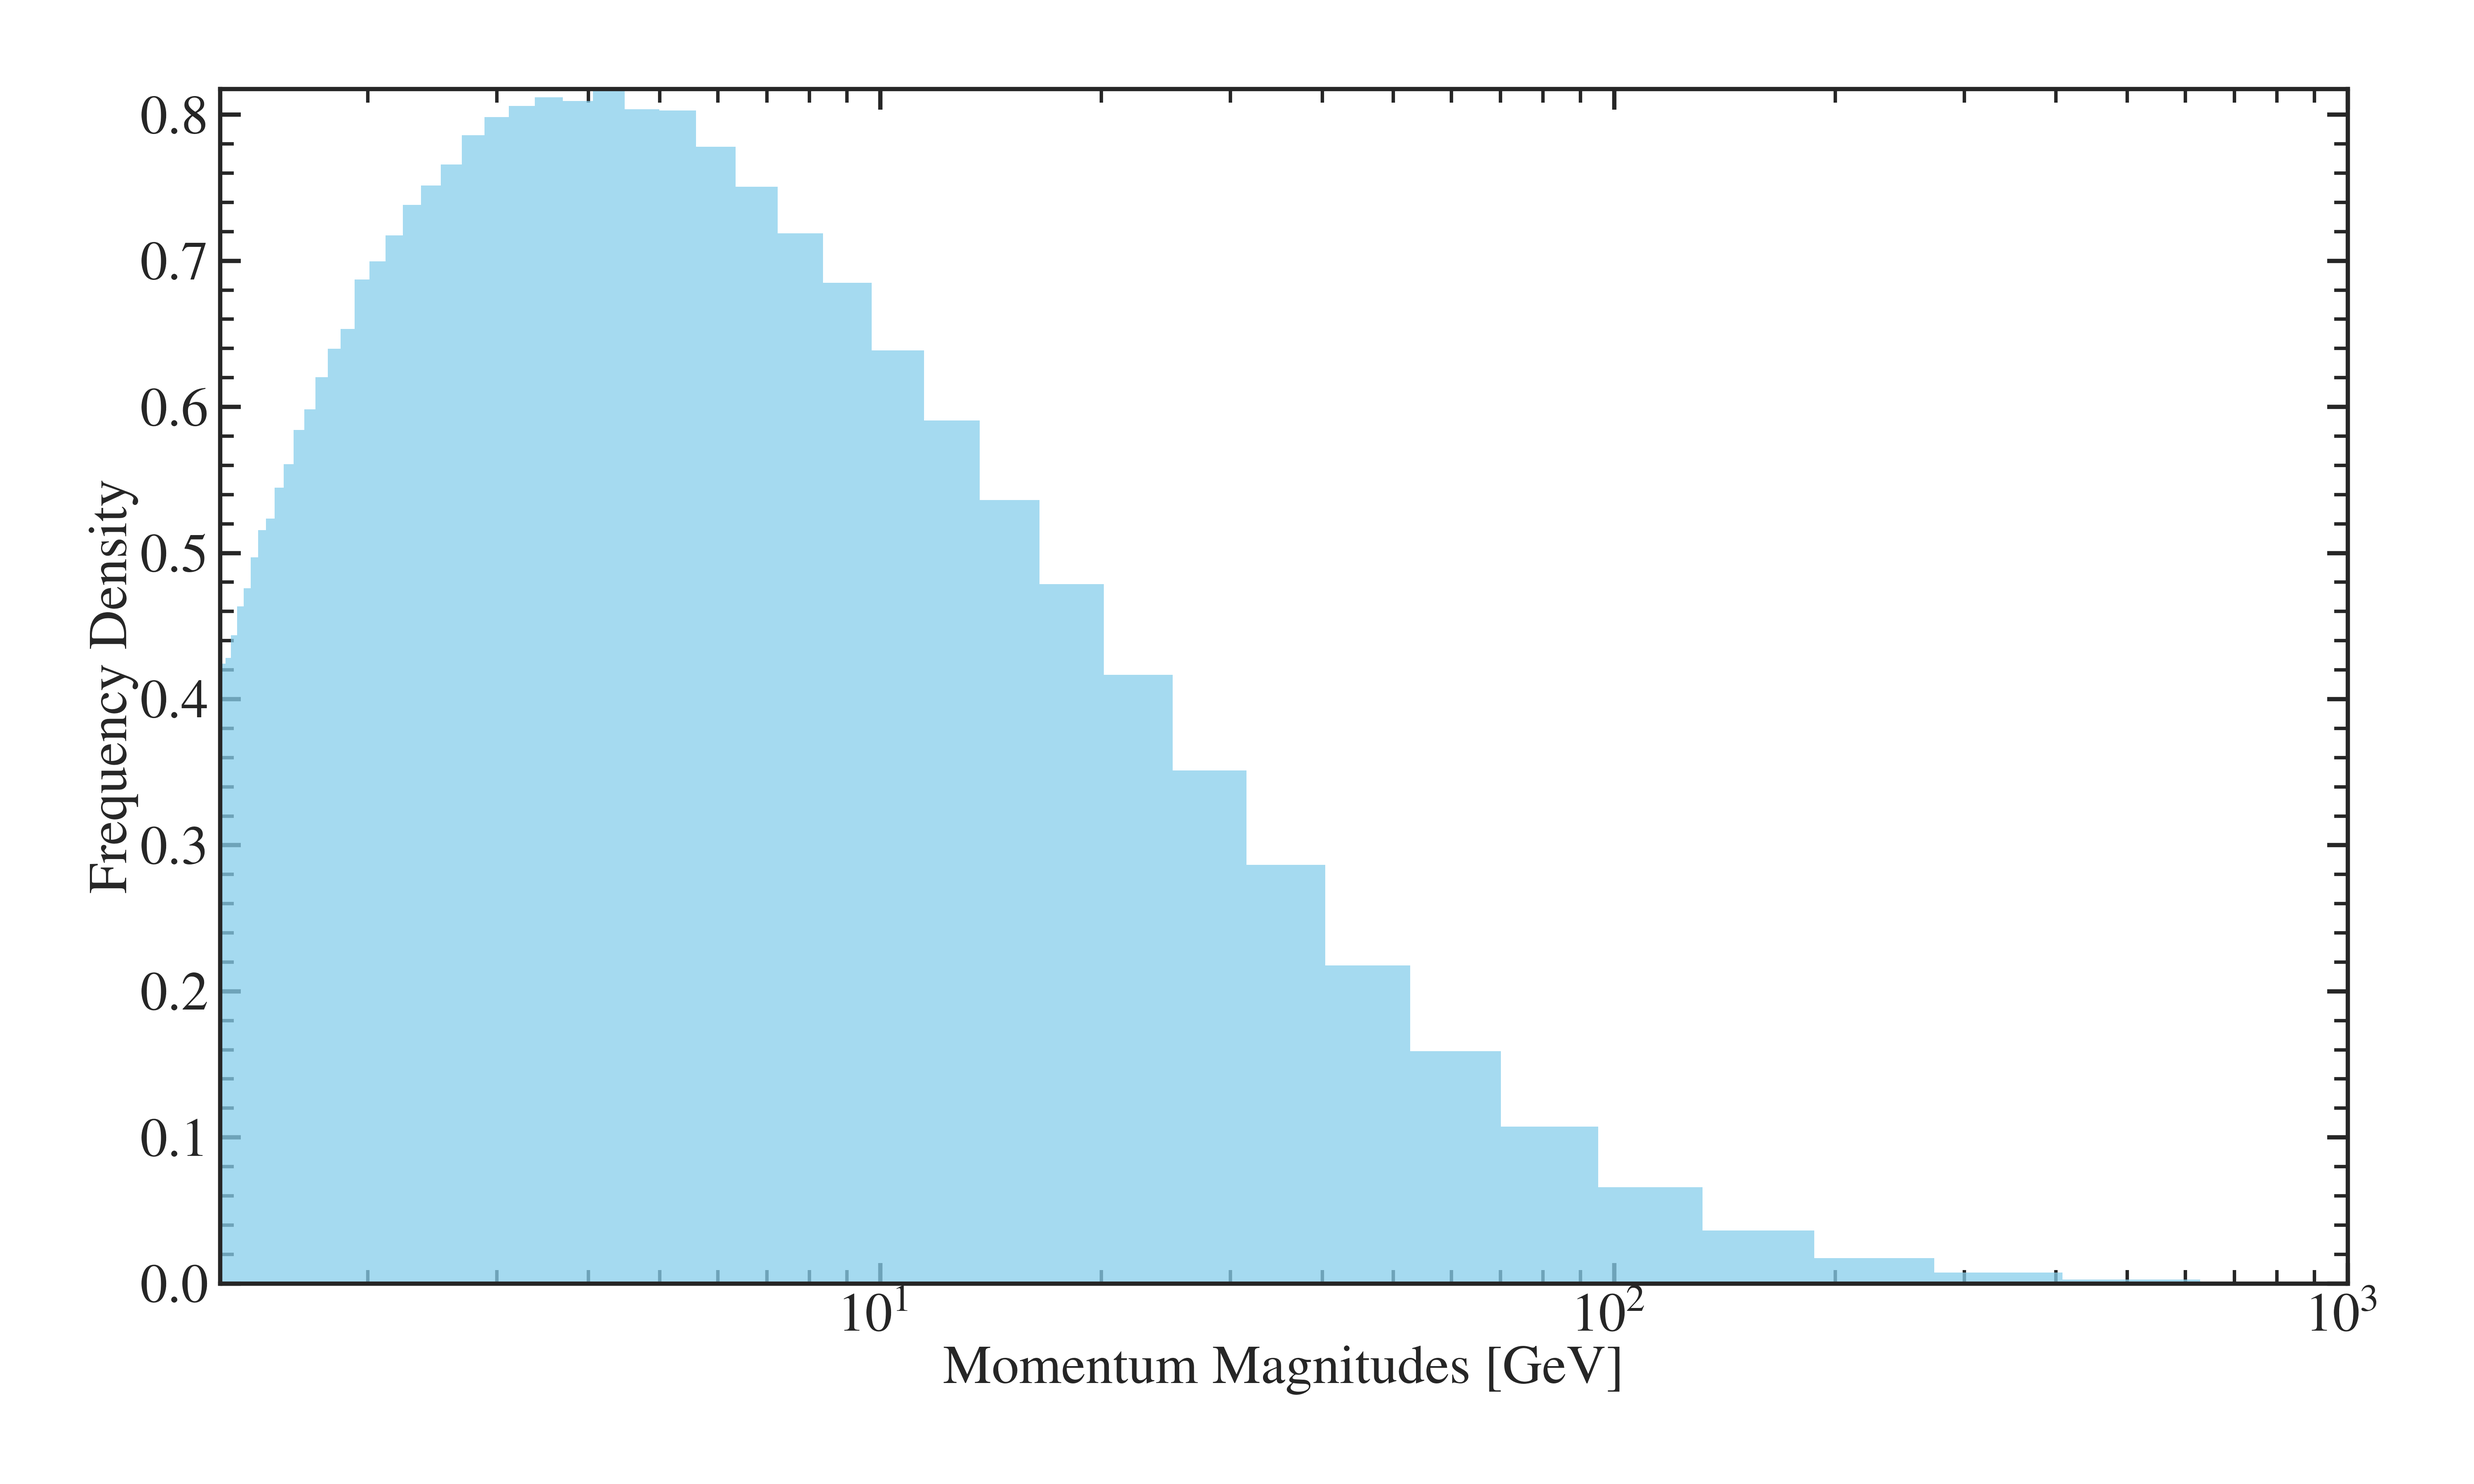
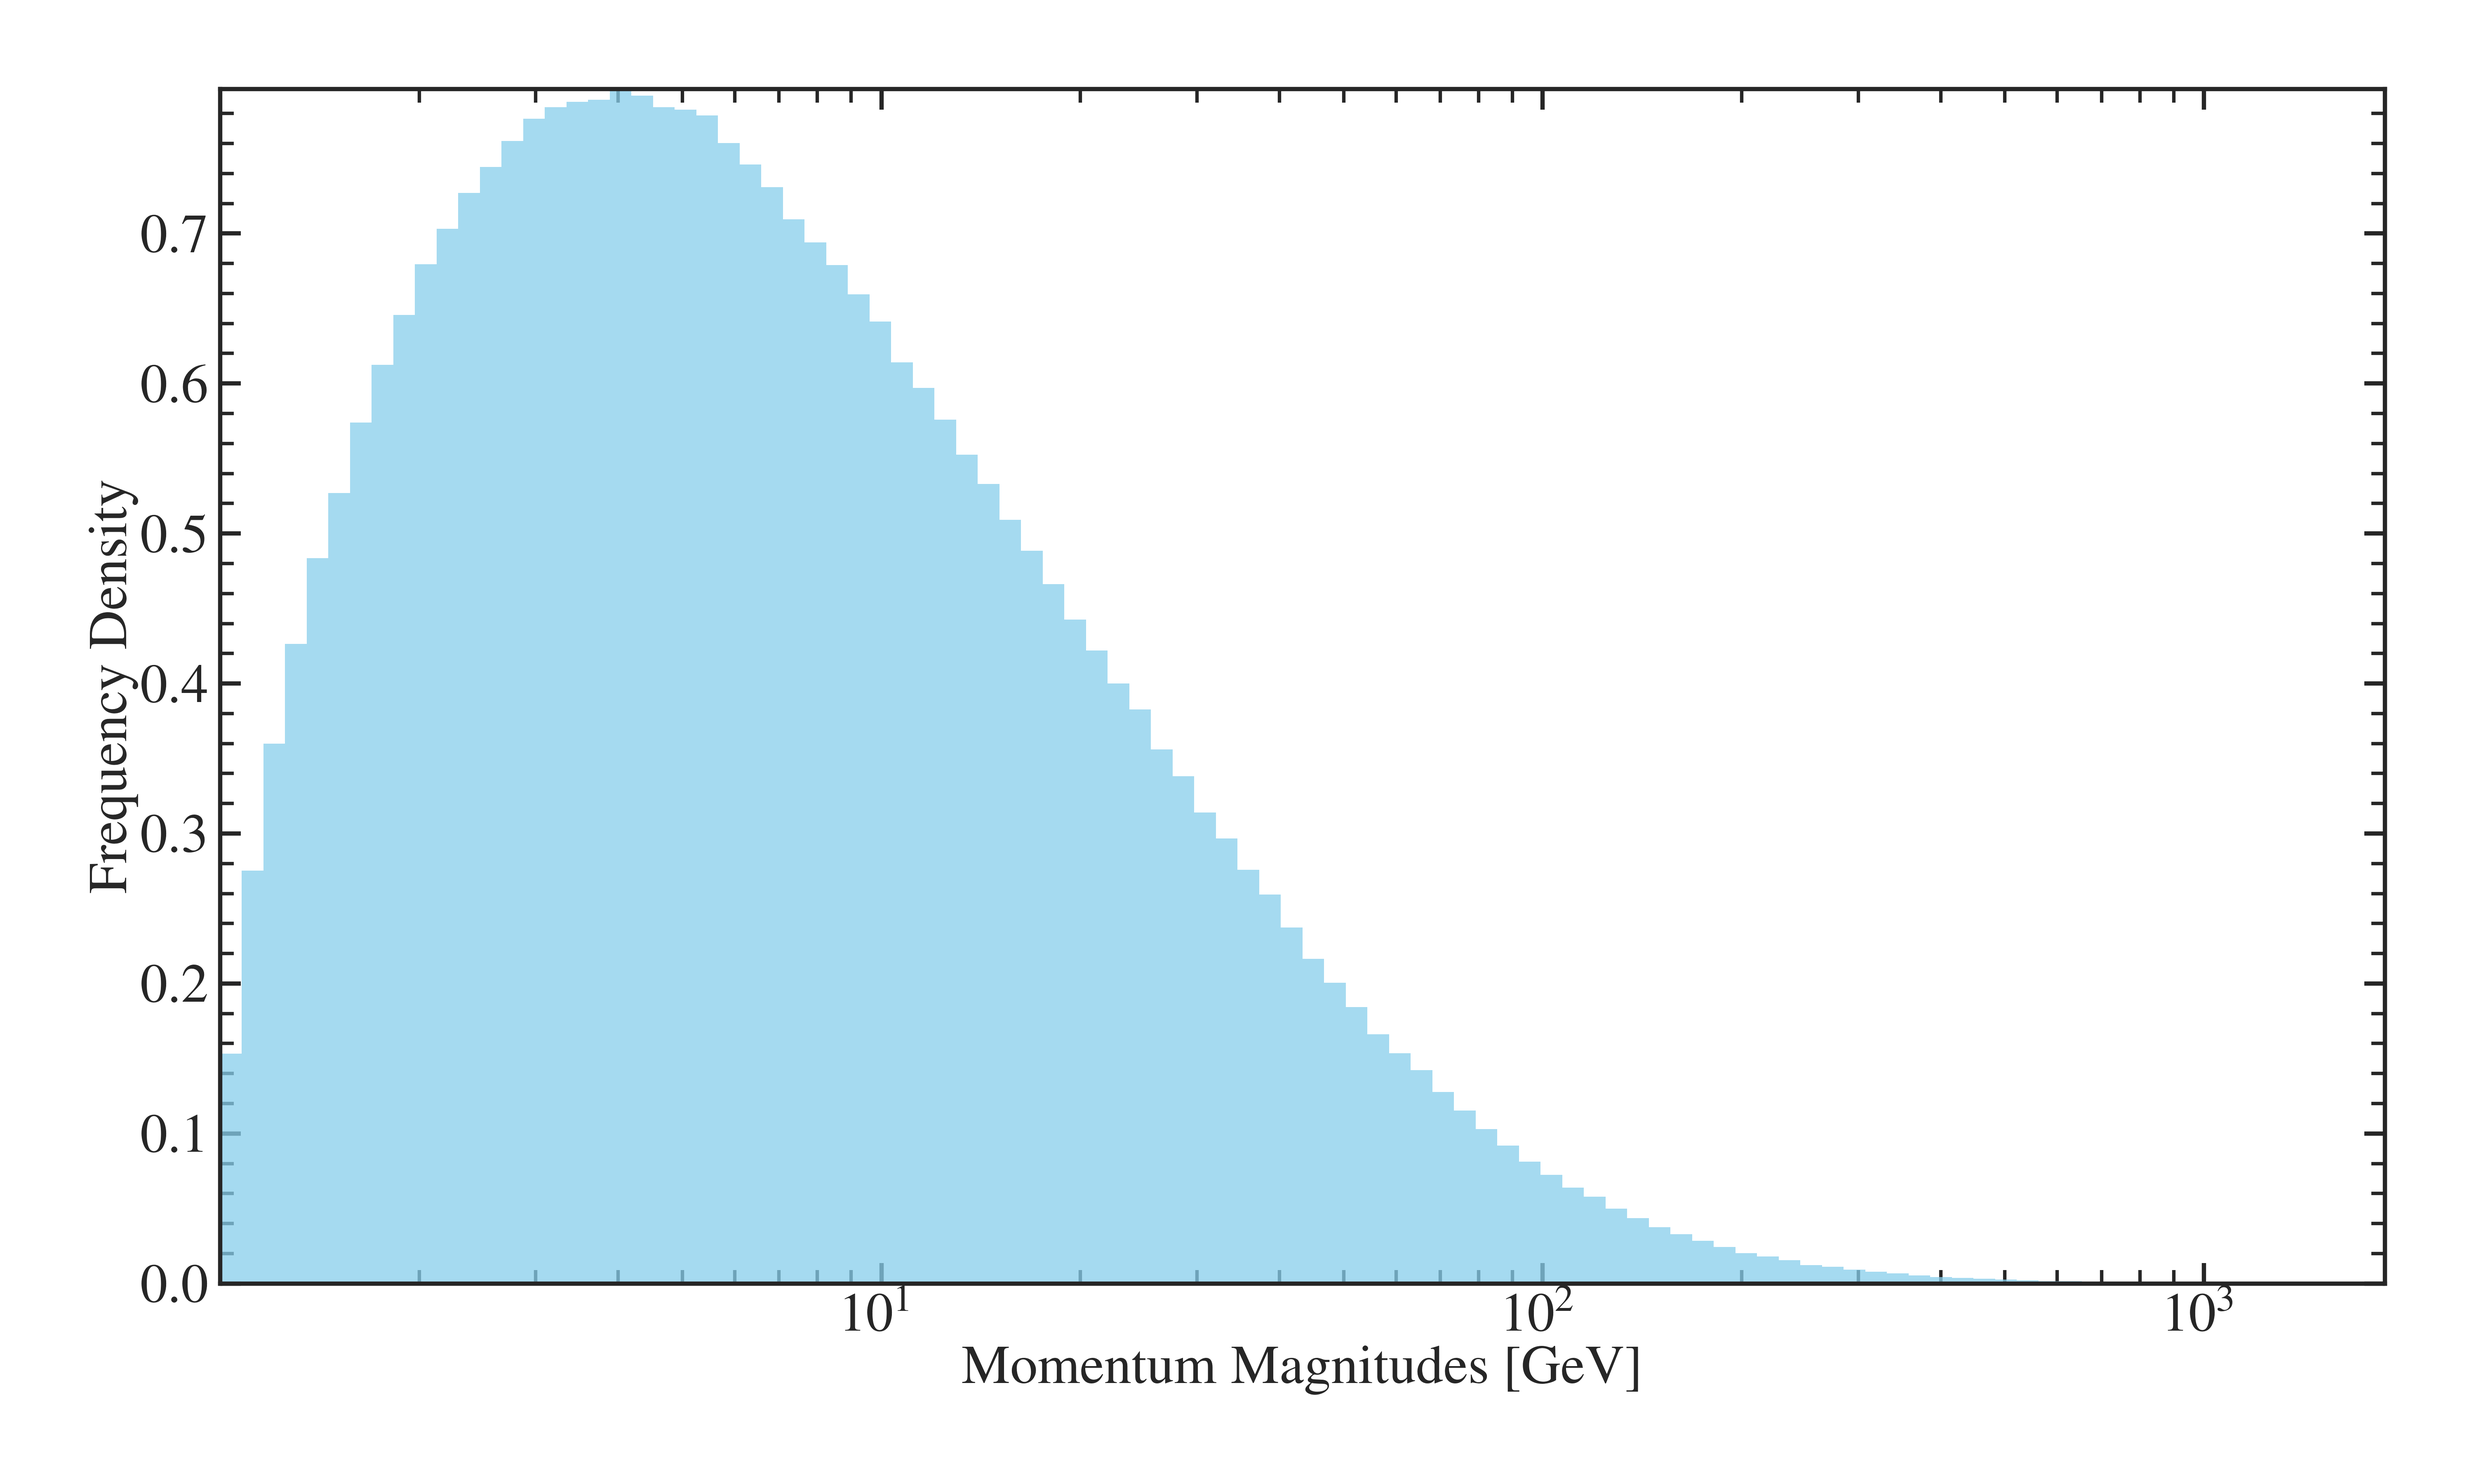
Fix logplot bins, some renaming of files/funcs

diff --git a/src/calculate_quantities.py b/src/calculate_quantities.py
@@ -73,7 +73,7 @@ def contraction(time_like_0, space_like_1, space_like_2, space_like_3):
     """Calculate the contractions."""
     return time_like_0**2 - (space_like_1**2 + space_like_2**2 + space_like_3**2)
 
-def COM_eta_phi(p):
+def get_axis_eta_phi(p):
     """Find COM of a collection of particles.
     Uses the massless limit (m << E).
 
@@ -93,11 +93,13 @@ def COM_eta_phi(p):
     eta = pseudorapidity(jet_mag, total_p[2])
     phi = to_phi(total_p[0], total_p[1])
     return eta, phi
+
 def centre_on_jet(centre, eta, phi):
     """ 
     Centres the jet axis on (0,0) and shifts all particles by this displacement.
     """
     return (0,0), eta - centre[0], phi - centre[1]
+
 def delta_R(centre, px, py, pz, etas, phis, boundary=1.0):
     """
     This function takes in particle information, and removes particles whose \Delta R(eta,phi) > 1.0 and returns all the others.

diff --git a/src/visualisation.py b/src/visualisation.py
@@ -13,7 +13,7 @@ from matplotlib.colors import ListedColormap
 from matplotlib.patches import Patch, Circle
 
 # Local imports
-from calculate_quantities import COM_eta_phi, delta_R, p_magnitude, pseudorapidity, to_phi,centre_on_jet
+from calculate_quantities import get_axis_eta_phi, delta_R, p_magnitude, pseudorapidity, to_phi,centre_on_jet
 from data_loading import select_event
 from process_data import wrap_phi
 
@@ -248,7 +248,7 @@ def generate_2dhist(tt_data, pile_up_data, jet_no,mu, bins=32, boundary = 1.0, h
     pmag = p_magnitude(px, py, pz)
     # All columns are passed in, so make sure to select last 3 columns for the 3-momenta
     # Find jet axis
-    jet_centre = COM_eta_phi(jet_data[:,3:])
+    jet_centre = get_axis_eta_phi(jet_data[:,3:])
     # Wrap jet axis phi between -1, 1
     print("centre", jet_centre)
     phis = to_phi(px, py)

diff --git a/src/bmap.py b/src/bmap.py
@@ -7,7 +7,7 @@ from PIL import Image
 
 # Local imports
 from data_loading import select_event
-from calculate_quantities import COM_eta_phi, p_magnitude, delta_R
+from calculate_quantities import get_axis_eta_phi, p_magnitude, delta_R
 from process_data import collection_crop_and_centre, unit_square_the_unit_circle
 
 SAVE_PATH = f"{CWD}/data/plots/bmaps/"
@@ -72,7 +72,7 @@ jet_pz = tt[:, 5]
 energies = p_magnitude(jet_px, jet_py, jet_pz)
 print("energies", energies)
 
-centre = COM_eta_phi(jet)
+centre = get_axis_eta_phi(jet)
 print("centre", centre)
 p_mag = p_magnitude(jet_px, jet_py, jet_pz)
 etas = pseudorapidity(p_mag, jet_pz)

diff --git a/src/generate_1d_plots.py b/src/generate_1d_plots.py
@@ -73,7 +73,7 @@ def plot_1D_hist(name, data, xlog=False, is_jet=False, plot_params=plot_params, 
     if xlog:
         plt.xscale("log")
         plot_params = plot_params.copy()
-        plot_params["bins"] = np.logspace(np.log10(0.1),np.log10(3.0), 50)
+        # plot_params["bins"] = np.logspace(np.log10(0.1),np.log10(3.0), 50)
     sb.histplot(data, **plot_params)
     # plt.title(f"Normalised Histogram of {num} {parjet} {name}")
     plt.xlabel(name, fontsize=label_fontsize)
